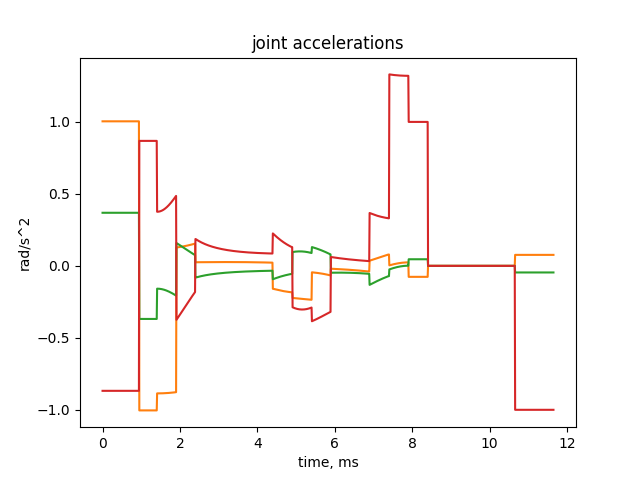
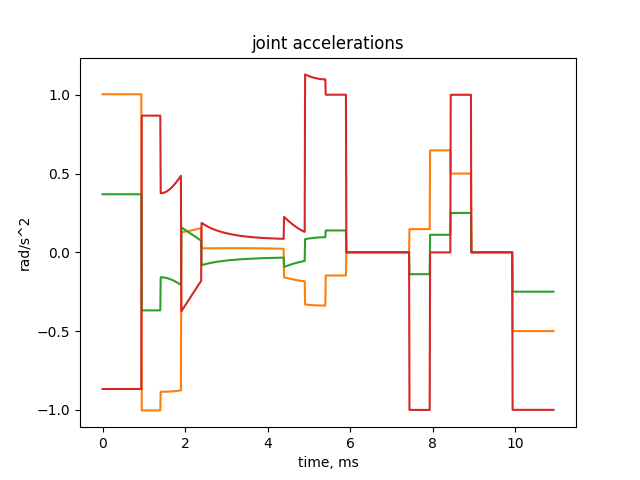
back to working version

diff --git a/main.py b/main.py
@@ -3,11 +3,17 @@ import numpy as np
 from elementary_transormations import *
 import matplotlib.pyplot as plt
 from kinematics import inv_kin
-from lin import get_v_cartesian
-from robot_configuration import *
+from robot_configuration import robot_l1, robot_l2, robot_l3, L
 from visualize import motion_plot
 
 init_printing(use_unicode=True)
+
+max_freq = 100
+max_joint_velocity = 1
+max_cartesian_velocity = 1
+max_joint_acceleration = 1
+max_cartesian_acceleration = 1
+junction_steps = 100
 
 # q1, q2, q3, l1, l2, l3 = symbols('q1 q2 q3 l1 l2 l3')
 
@@ -120,7 +126,7 @@ def ptp_trajectory(q0, qf):
         return pos, v, acc
 
 
-def lin_trajectory(x0, xf, q0_real = None):
+def lin_trajectory(x0, xf):
     dist = np.linalg.norm(xf - x0)
     dist_z = xf[2] - x0[2]
     dist_y = xf[1] - x0[1]
@@ -131,13 +137,53 @@ def lin_trajectory(x0, xf, q0_real = None):
     cos_b = dist_x / dist_xy
     sin_b = dist_y / dist_xy
 
-    q0 = q0_real if q0_real is not None else inv_kin(x0, L)
+    q0 = inv_kin(x0, L)
+    qf = inv_kin(xf, L)
 
     def get_joint_components(module):
         return np.array([module * cos_a * cos_b, module * cos_a * sin_b, module * sin_a])
 
-    v_cartesian = get_v_cartesian(x0, xf)
-    time = np.arange(0, v_cartesian.shape[0] * 0.01 - 0.005, 0.01)
+    t_ba = np.around(dist / max_cartesian_velocity, 2)
+    t_b = np.around(max_cartesian_velocity / max_cartesian_acceleration, 2)
+
+    time = 0
+    v_cartesian = 0
+
+    if t_b < t_ba:
+        t_a = t_ba - t_b
+        t_f = t_ba + t_b
+        time = np.arange(0, t_f + 0.005, 0.01)  # add 0.005 to create array with correct size
+        v_cartesian = np.zeros(time.shape[0])  # 3 because there are 3 joints
+
+        for (i,), cur_time in np.ndenumerate(time):
+            if cur_time < t_b:
+                v_cartesian[i] = max_cartesian_acceleration * cur_time
+            elif cur_time < t_a + t_b:
+                v_cartesian[i] = max_cartesian_velocity
+            else:
+                v_cartesian[i] = max_cartesian_acceleration * (t_f - cur_time)
+
+    else:
+        t_b = np.around(np.sqrt(dist/max_joint_acceleration), 2)
+        t_f = 2 * t_b
+        time = np.arange(0, t_f + 0.005, 0.01)  # add 0.005 to create array with correct size
+        v_cartesian = np.zeros(time.shape[0])  # 3 because there are 3 joints
+        for (i,), cur_time in np.ndenumerate(time):
+            if cur_time < t_b:
+                v_cartesian[i] = max_cartesian_acceleration * cur_time
+            else:
+                v_cartesian[i] = max_cartesian_acceleration * (t_f - cur_time)
+
+    plt.figure(0)
+    plt.ylabel('velocity, m')
+    plt.xlabel('time, s')
+    plt.title('cartesian velocity')
+    x1 = time[0:-1]
+    x2 = time[1:]
+    y1 = v_cartesian[0:-1]
+    y2 = v_cartesian[1:]
+    plt.plot(x1, y1, x2, y2)
+    plt.show()
 
     # done for cartesian velocity
     # now calculate joint velocities
@@ -242,7 +288,7 @@ def arc_trajectory(x0, xf):
 
 
 # accepts 2 trajectories and returns combined trajectory with junction
-def junction(t1, t2):
+def junction(t1, t2,):
     v1 = t1[1]
     new_pos = t1[0]
     new_acc = t1[2]
@@ -279,15 +325,13 @@ q0 = np.array([0, 0, 0])
 x1 = np.array([4, 5.1, 1])
 q1 = inv_kin(x1, L)
 x2 = np.array([1, 5, 0.9])
-x3 = np.array([1, 3, 0.95])
-q4 = np.array([1, 1, 1])
-q5 = np.array([2, 1.5, 3])
+q3 = np.array([1, 1, 1])
+q4 = np.array([2, 1.5, 3])
 
 trajectory1 = ptp_trajectory(q0, q1)
 trajectory2 = lin_trajectory(x1, x2)
-trajectory3 = lin_trajectory(x2, x3, trajectory2[0][:, -1])
-trajectory4 = ptp_trajectory(trajectory3[0][:, -1], q4)
-trajectory5 = ptp_trajectory(q4, q5)
+trajectory3 = ptp_trajectory(trajectory2[0][:, -1], q3)
+trajectory4 = ptp_trajectory(q3, q4)
 
 t12_with_junction = junction(trajectory1, trajectory2)
 t13_with_junction = junction(t12_with_junction, trajectory3)
@@ -296,5 +340,10 @@ t14_with_junction = junction(t13_with_junction, trajectory4)
 pos = t14_with_junction[0]
 v = t14_with_junction[1]
 acc = t14_with_junction[2]
+
+# pos = np.hstack((trajectory1[0], trajectory2[0], trajectory3[0], trajectory4[0]))
+# v = np.hstack((trajectory1[1], trajectory2[1], trajectory3[1], trajectory4[1]))
+# acc = np.hstack((trajectory1[2], trajectory2[2], trajectory3[2], trajectory4[2]))
+
 
 motion_plot(pos, v, acc)
